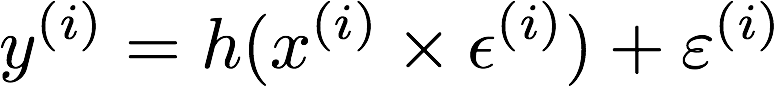
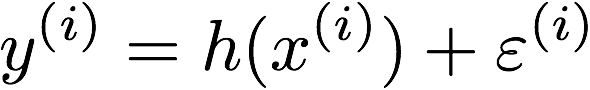
Fix mistakes

Changed region(s): [[0.0, 0.0, 1.0, 1.0], [0.3356, 0.9302, 0.3661, 1.0]]

diff --git a/notes_mse/additive_noise.py b/notes_mse/additive_noise.py
@@ -12,6 +12,9 @@ import tensorflow as tf
 # 2 - We sample some inpus point from a distribution on this interval 
 # 3 - We compute their corresponding sinus value
 # 4 - We add additive noise to our perfect output values to create our noisy output values
+# 5 - We learn from the dataset we juste created and recover the sinus function on the interval
+# 6 - We show that if we sample some data outside of the interval, mothing works anymore 
+#       (breaking the  identically distributed assumption)
 #############################################
 
 
@@ -34,13 +37,13 @@ noisy_y = y + noises
 
 f, axarr = plt.subplots(5, sharex=True)
 f.subplots_adjust(hspace=1.)
-axarr[0].set_title('Sinus function, what we want to approximate')
+axarr[0].set_title('Sinus function: what we want to approximate')
 axarr[0].plot(lin_x, y)
-axarr[1].set_title('Noisy Sinus data, what we actually observe')
+axarr[1].set_title('Noisy Sinus data: what we actually observe')
 axarr[1].plot(lin_x, noisy_y)
 #### END PART 1
 
-#### PART 2: Build a model based on the insights you gathered from looking into your dataset
+#### PART 2: Build a model based on the insights we gathered from looking into your dataset
 # We will build a basic 2-layer FC NN (It is an universal approximator after all)
 nb_hd_units = 50
 with tf.variable_scope('model'):
@@ -49,22 +52,28 @@ with tf.variable_scope('model'):
 
     # Notice that I use the uniform prior to initialize my parameters
     # In this case: Maximum a posteriori (MAP) = Maximum Likelihood Estimate (MLE)
-    w1 = tf.get_variable('w1', shape=[1, nb_hd_units], initializer=tf.random_uniform_initializer(-2e-1, 2e-1))
-    b1 = tf.get_variable('b1', shape=[nb_hd_units], initializer=tf.constant_initializer(0.))
+    w1 = tf.get_variable('w1', shape=[1, nb_hd_units], 
+        initializer=tf.random_uniform_initializer(-2e-1, 2e-1))
+    b1 = tf.get_variable('b1', shape=[nb_hd_units], 
+        initializer=tf.constant_initializer(0.))
     a = tf.nn.relu(tf.matmul(x_plh, w1) + b1)
 
-    w2 = tf.get_variable('w2', shape=[nb_hd_units, nb_hd_units], initializer=tf.random_uniform_initializer(-2e-1, 2e-1))
-    b2 = tf.get_variable('b2', shape=[nb_hd_units], initializer=tf.constant_initializer(0.))
+    w2 = tf.get_variable('w2', shape=[nb_hd_units, nb_hd_units], 
+        initializer=tf.random_uniform_initializer(-2e-1, 2e-1))
+    b2 = tf.get_variable('b2', shape=[nb_hd_units], 
+        initializer=tf.constant_initializer(0.))
     a = tf.nn.relu(tf.matmul(a, w2) + b2)
 
-    w3 = tf.get_variable('w3', shape=[nb_hd_units, 1], initializer=tf.random_uniform_initializer(-2e-1, 2e-1))
+    w3 = tf.get_variable('w3', shape=[nb_hd_units, 1], 
+        initializer=tf.random_uniform_initializer(-2e-1, 2e-1))
     out = tf.matmul(a, w3)
 
 with tf.variable_scope('loss'):
     # From the optimization point of view, I need a decreasing learning rate to converge
     global_step = tf.Variable(0, trainable=False)
     starter_lr = 5e-1
-    # See this as: the first half of training is to fit globally the data, the last half of the training is to make more fine grained tuning
+    # See this as: the first half of training is to fit globally the data, 
+    # the last half of the training is to make more fine grained tuning
     lr = tf.train.exponential_decay(starter_lr, global_step, 2000, 0.3, staircase=True)
 
     # I'm keeping this simple:
@@ -97,9 +106,8 @@ with tf.Session() as sess:
                 x_plh: perm_x[j*500:(j+1)*500, :],
                 y_plh: perm_noisy_y[j*500:(j+1)*500, :]
             })
-            if j % 200 == 0:
+            if j % 500 == 0:
                 print("Epoch: %d - %d%%, lr: %f, loss: %f" % (i, int(j/10), lr_out, l))
-        print("Epoch: %d - %d%%, lr: %f, loss: %f" % (i, 100, lr_out, l))
 
     # Let's graph the output of our neural network on the same distribu
     neural_y = sess.run(out, feed_dict={
@@ -117,7 +125,7 @@ with tf.Session() as sess:
 
 axarr[2].set_title('Neural reconstruction')
 axarr[2].plot(lin_x, neural_y)
-axarr[3].set_title('Absolute error with the original sinus function')
+axarr[3].set_title('Absolute mean error: ' + str(int(np.mean(neural_y - y) * 1000)/1000) )
 axarr[3].plot(lin_x, np.abs(neural_y - y))
 axarr[4].set_title('Test set translated by 2 pi (not IID)')
 axarr[4].plot(lin_x_not_iid, neural_y_not_iid)

diff --git a/notes_mse/README.md b/notes_mse/README.md
@@ -39,10 +39,13 @@ y^{(i)} &= h(x^{(i)} \times \epsilon^{(i)}) + \varepsilon^{(i)} \\
 
 ```
 \begin{align}
-&\text{We have } \varepsilon^{(i)} = y^{(i)} - h_{\theta, m}(x^{(i)}) \text{ and } \varepsilon \sim \mathcal{N}(0, \sigma^2) \\
-&\Rightarrow p(y^{(i)} | x^{(i)}, \theta, m) = \frac{1}{\sqrt{2\pi}\sigma}e^{-\frac{(y^{(i)} - h_{\theta, m}(x^{(i)}))^2}{2\sigma^2}} \\
-&\Rightarrow log(p(y^{(i)} | x^{(i)}, \theta, m)) =  \log\frac{1}{\sqrt{2\pi}\sigma} - \frac{1}{\sigma^2} \frac{1}{2} (y^{(i)} - h_{\theta, m}(x^{(i)}))^2 \\
-&\Rightarrow \underset{\theta}{\text{ argmax }} \sum_i \log(p(d^{(i)} | \theta, m)) = \underset{\theta}{\text{ argmin }} \frac{1}{2}\sum_i^N(y^{(i)} - h_{\theta, m}(x^{(i)}))^2
+&\text{For a datum } d = \{x, y\} \text{ we have } y = h_{\theta, m}(x) + \varepsilon \\
+&\Rightarrow p(y | x, \theta, m) = p(h_{\theta, m}(x) + \varepsilon| x, \theta, m) \\
+&\Rightarrow p(y | x, \theta, m) = p(h_{\theta, m}(x) | x, \theta, m) \times p(\varepsilon | x, \theta, m) \\
+&\Rightarrow p(y | x, \theta, m) = 1 \times p(\varepsilon) \\
+&\Rightarrow log(p(y | x, \theta, m)) =  \log\frac{1}{\sqrt{2\pi}\sigma} - \frac{1}{\sigma^2} \frac{1}{2} \varepsilon^2 \\
+&\Rightarrow log(p(y | x, \theta, m)) =  \log\frac{1}{\sqrt{2\pi}\sigma} - \frac{1}{\sigma^2} \frac{1}{2} (y - h_{\theta, m}(x))^2 \\
+&\Rightarrow \underset{\theta}{\text{ argmax }} \sum_i \log(p(d | \theta, m)) = \underset{\theta}{\text{ argmin }} \frac{1}{2}\sum_i^N(y - h_{\theta, m}(x))^2
 \end{align}
 ```
 
